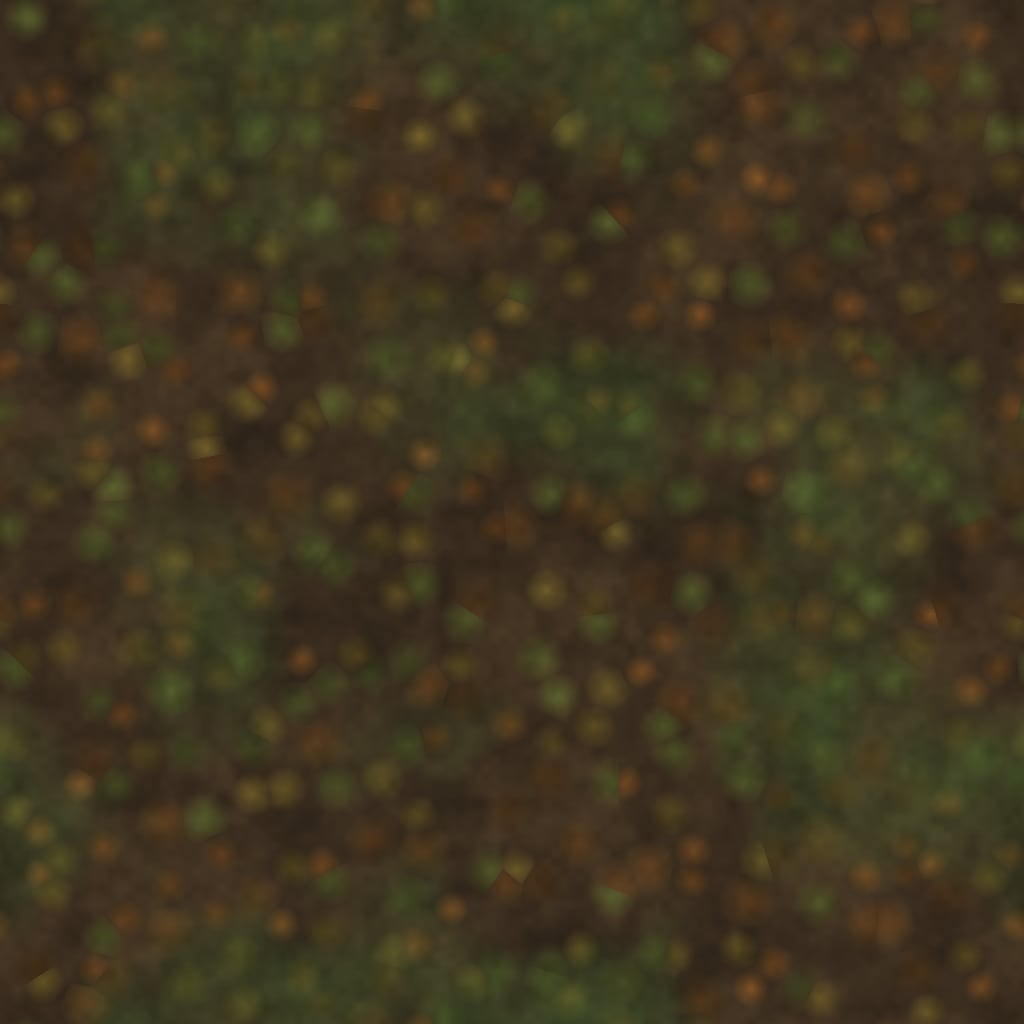
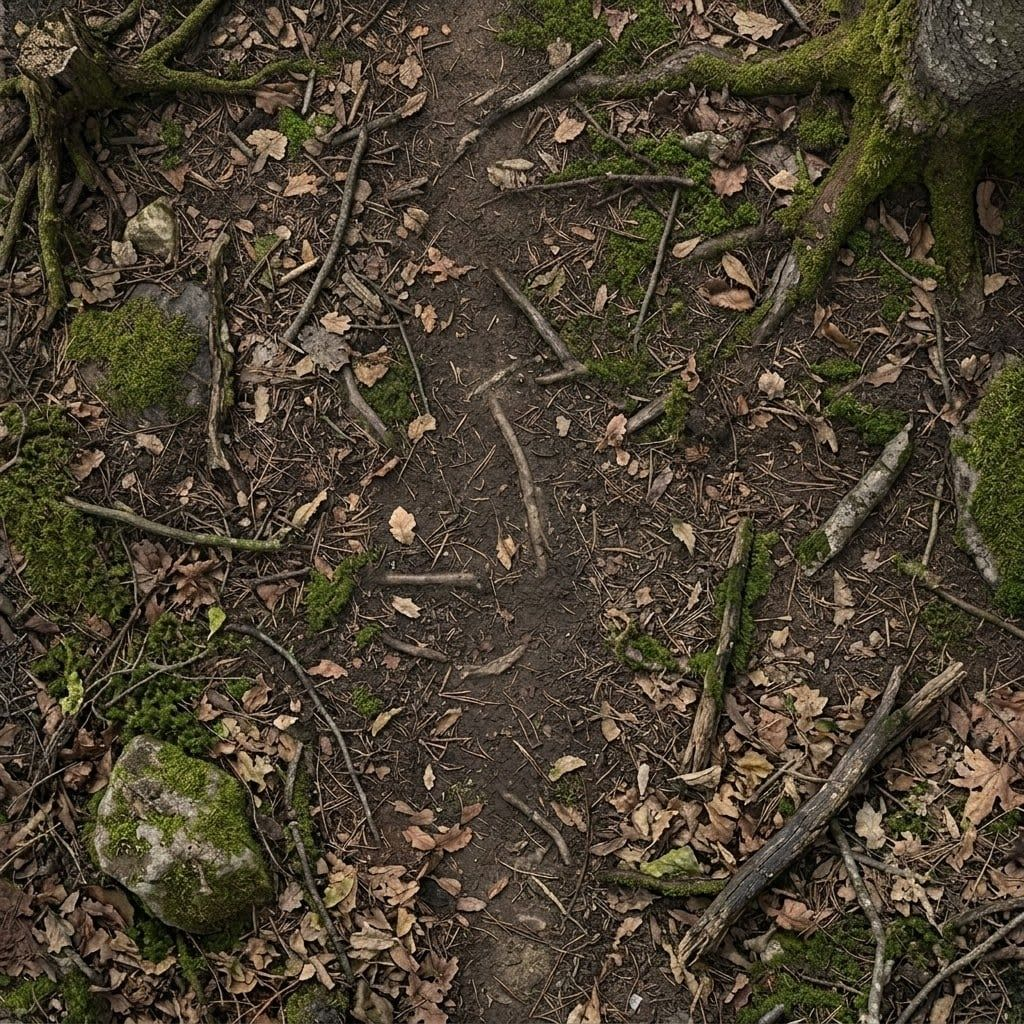
Gemini floors and prop tokens for seven grounds
Nine floors replaced with Gemini renders (masters in art/textures), seven
prop sheets registered and sliced into public/maps/tokens, theme fallback
colours re-measured.

diff --git a/src/battlemap.js b/src/battlemap.js
@@ -56,17 +56,17 @@ export const MAP_THEMES = [
     '#e6d9b8', '#c0552a', '#534f47',
     'Cut stone laid by people long dead, and walked on by whatever came after.'),
   T('catacombs', 'Crypt', 'Pale marble slabs, bone dust, cracked inlay',
-    '#2e342e', '#4a6a48', '#9a9b92',
+    '#2e342e', '#4a6a48', '#aea799',
     'Burial halls under a temple. Everything here was placed carefully, then left.',
     0.14, 0.5),
   T('cavern', 'Cavern', 'Damp bare rock, flowstone, pooled water',
-    '#d8cbb4', '#c98f4a', '#554f46',
+    '#d8cbb4', '#c98f4a', '#555246',
     'A natural cave floor, uneven and wet, with nothing level for a mile.'),
   T('volcanic', 'Obsidian and Ember', 'Black basalt, glowing cracks, slag',
-    '#f0c98a', '#ff6b2c', '#42352f',
+    '#f0c98a', '#ff6b2c', '#444341',
     'Ground that is still cooling, over something that is not.'),
   T('tavern', 'Tavern Boards', 'Worn plank, spilt ale, old nail-heads',
-    '#f0dcb0', '#c0552a', '#68492b',
+    '#f0dcb0', '#c0552a', '#705c45',
     'An inn’s common room, a ship’s deck, a merchant’s upper floor.',
     0.2, 0.34),
 
@@ -76,23 +76,23 @@ export const MAP_THEMES = [
      numbers differ a lot across these, because a sunlit dune and a forest
      floor are not the same kind of dark. */
   T('forest', 'Forest Floor', 'Leaf litter, root, moss, dappled earth',
-    '#d9e6b8', '#7fa05a', '#3f3520',
+    '#d9e6b8', '#7fa05a', '#4a4031',
     'Old woodland. Everything underfoot is rotting, or growing through something that is.',
     0.18, 0.34),
   T('swamp', 'Swamp', 'Peat, standing water, reed and algae',
-    '#d3dfb0', '#8fa04a', '#383c26',
+    '#d3dfb0', '#8fa04a', '#3c3d30',
     'Low, wet ground where the path is whatever has not sunk yet.',
     0.2, 0.34),
   T('desert', 'Desert', 'Drift sand over cracked hardpan and bare rock',
-    '#4a3520', '#8a5a2b', '#c29a64',
+    '#4a3520', '#8a5a2b', '#c1a278',
     'Wind-scoured and open. Cover is wherever the rock has broken, and there is not much of it.',
     0.14, 0.5),
   T('tundra', 'Frozen Tundra', 'Pack snow, blue ice, frost-heaved stone',
-    '#2c4450', '#2f7f99', '#cfdce1',
+    '#2c4450', '#2f7f99', '#9da9b4',
     'Hard ground under thin snow. The blue is where the snow has gone and the ice has not.',
     0.12, 0.55),
   T('cobbles', 'Cobbled Street', 'Rounded setts, packed dirt in the gaps',
-    '#e6dcc4', '#b5651d', '#6d675c',
+    '#e6dcc4', '#b5651d', '#686153',
     'A town street or a keep’s courtyard, worn to a shine down the middle.',
     0.2, 0.34)
 ];

diff --git a/src/spritesheet.js b/src/spritesheet.js
@@ -114,7 +114,10 @@ export const slotOfRole = (role) => {
    shapes and stripes a square always falls back to, and a ground the DM
    generates carries its own sheet. Drop a sheet in art/sprites, add the line
    here and run tools/slice-sprites.mjs. */
-export const SHEET_FOR_THEME = {};
+export const SHEET_FOR_THEME = {
+  catacombs: 'crypt', cavern: 'cavern', cobbles: 'cobblestones', desert: 'desert',
+  swamp: 'swamp', tundra: 'tundra', volcanic: 'embers'
+};
 
 /* ---- which picture an element gets ----
 

diff --git a/TEXTURES.md b/TEXTURES.md
@@ -180,11 +180,16 @@ Outdoor grounds work with the same tools: a "wall" there is terrain and a
 ## Props
 
 Doors, barrels, pillars, fires and thickets are drawn as **flat shapes** unless
-a ground has a prop sheet. The built-in ten ship without one; a ground you
+a ground has a prop sheet. Seven of the built-in ten (crypt, cavern, cobbles, desert, swamp, tundra, volcanic) ship with one, cut into `public/maps/tokens/<theme>/`; the masters stay in `art/sprites/`, which is not deployed; a ground you
 generate can have its own (**Generate matching props**, in the Ground panel, once a floor is previewed), asked for
 as ONE 4x4 sheet so the sixteen share a palette and a light. To ship a sheet
 with a built-in theme, put it in `art/sprites/`, name it in `SHEET_FOR_THEME`
 (`src/spritesheet.js`) and run `node tools/slice-sprites.mjs`.
+
+**Floors from Gemini.** Nine of the ten floors in `public/maps/*.jpg` are Gemini
+renders (masters in `art/textures/`, recompressed to 1024px JPEG q84); only
+`dungeon` is still procedural. `npm run textures` rewrites all ten procedural
+ones, so pass `--only dungeon` unless you mean to replace the Gemini floors.
 
 ## Overlay art
 
